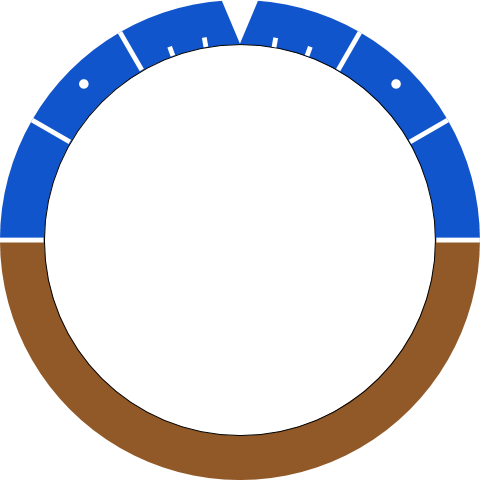
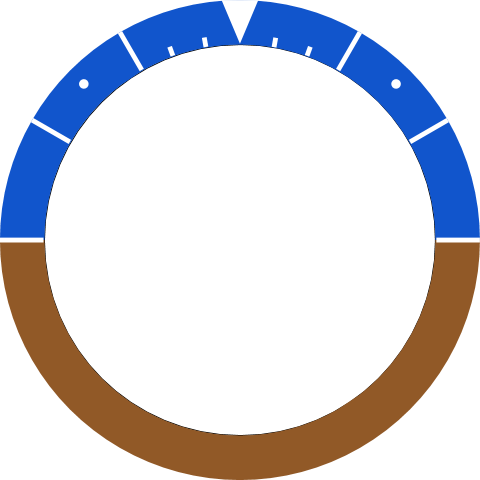
Changed the Attitude images

diff --git a/FlyPi.py b/FlyPi.py
@@ -12,9 +12,9 @@ clock = pygame.time.Clock()
 
 screen = pygame.display.set_mode((0,0),pygame.FULLSCREEN)
 
-heading = classes.Instrument(screen,500,500,10,config.headingStatic,config.headingMove)
+heading = classes.Instrument(screen,1500,1000,10,config.headingStatic,config.headingMove)
 
-attitude = classes.Horizon(screen,1200,500,0,0,config.attitudeStatic,config.attitudeMove,config.attitudeBorder)
+attitude = classes.Horizon(screen,2500,1000,0,0,config.attitudeStatic,config.attitudeMove,config.attitudeBorder)
 
 while not crashed:
     for event in pygame.event.get():

diff --git a/config.py b/config.py
@@ -12,6 +12,6 @@ attitudeMove = pygame.image.load('images/attitudebkgd.png')
 attitudeStatic = pygame.image.load('images/attituderef.png')
 attitudeBorder = pygame.image.load('images/attitudeborder.png')
 attitudeMove = pygame.transform.scale(attitudeMove,(400,960))
-attitudeStatic = pygame.transform.scale(attitudeStatic,(400,400))
-attitudeBorder = pygame.transform.scale(attitudeBorder,(400,4000))
+attitudeStatic = pygame.transform.scale(attitudeStatic,(500,500))
+attitudeBorder = pygame.transform.scale(attitudeBorder,(400,400))
 
